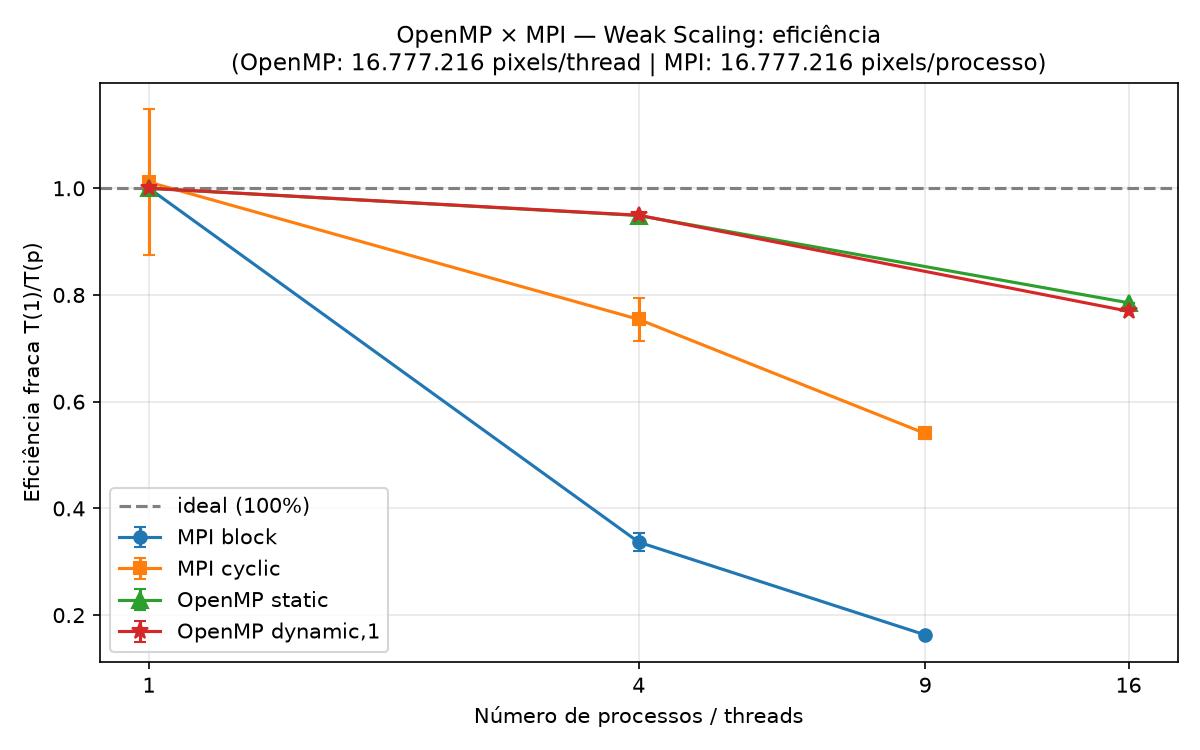
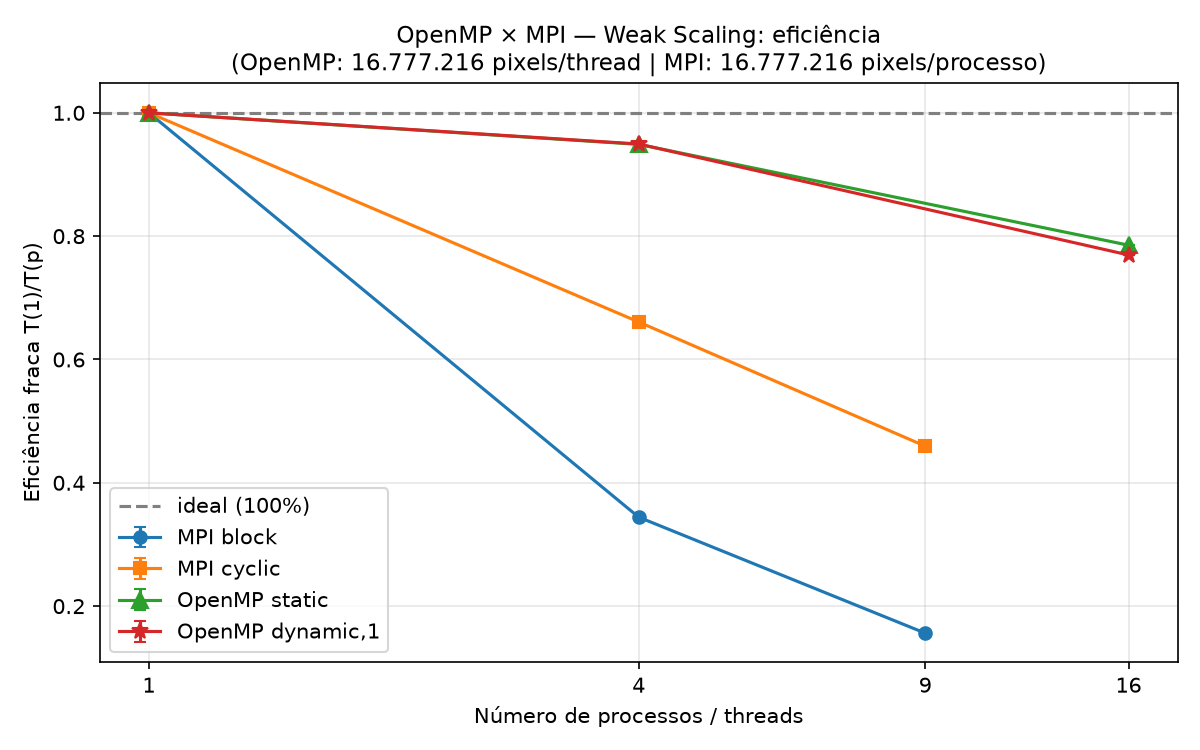
Adição de testes corrigidos após alteração no fator de balanceamento

diff --git a/scripts/generate_plots_mpi.py b/scripts/generate_plots_mpi.py
@@ -16,7 +16,7 @@ Convenções
 * Speedup = T_serial / T_paralelo ; Eficiência = Speedup / p.
 * Weak scaling: eficiência fraca = T(p=1) / T(p), com T(p=1) = média das
   repetições com p=1 da mesma estratégia/política.
-* f_lb (MPI) e λ (OpenMP) são a mesma métrica: t_max / t_mean (1.0 = ideal).
+* λ (MPI) = (t_max - t_min) / t_max (0.0 = ideal).
 * Referências (ideal / serial): quando a referência distorce a escala do
   gráfico (ref_max / topo_dados > LIMIAR_REF), são gerados DOIS arquivos:
       <nome>.png          -> só os resultados (escala ajustada aos dados)
@@ -400,6 +400,8 @@ def ref_ideal_speedup(ax):
 def ref_um(ax, rotulo):
     ax.axhline(1.0, linestyle="--", color="gray", label=rotulo)
 
+def ref_zero(ax, rotulo):
+    ax.axhline(0.0, linestyle="--", color="gray", label=rotulo)
 
 def formatar_p(ax, ps=P_COMUNS):
     ax.set_xscale("log", base=2)
@@ -425,6 +427,8 @@ def builder_strong_mpi(campo, ylabel, titulo, ref):
                     ref_ideal_speedup(ax)
                 elif ref == "um":
                     ref_um(ax, "ideal (100%)" if campo == "efic" else "ideal (1.0)")
+                elif ref == "zero":
+                     ref_zero(ax, "ideal (0.0)")
                 elif ref == "serial":
                     ts = next(r["t_serial"] for r in resumo_mpi if r["cenario"] == cen)
                     ax.axhline(ts, linestyle="--", color="gray", label="serial")
@@ -452,9 +456,9 @@ salvar("time_strong_mpi",
        builder_strong_mpi("tempo", "Tempo médio (s)", "MPI — Tempo vs Processos", "serial"),
        ref_max=t_serial_max)
 salvar("lambda_strong_mpi",
-       builder_strong_mpi("flb", "f_lb (t_max / t_mean)",
-                          "MPI — Fator de balanceamento vs Processos", "um"),
-       ref_max=1.0)
+       builder_strong_mpi("flb", "f_lb ((t_max - t_min) / t_max)",
+                          "MPI — Fator de balanceamento vs Processos", "zero"),
+       ref_max=0.0)
 
 
 # ---------------------------------------------------------------
@@ -511,6 +515,10 @@ if any(r["cenario"] == "weak" for r in resumo_mpi):
            builder_weak_mpi("efic_fraca", "Eficiência fraca T(1)/T(p)",
                             "MPI — Weak Scaling: eficiência", "um"),
            ref_max=1.0)
+    salvar("weak_scaling_mpi_lambda",
+           builder_weak_mpi("flb", "f_lb ((t_max - t_min) / t_max)",
+                            "MPI — Weak Scaling: Fator de balanceamento", "zero"), 
+           ref_max=0.0)
 
 
 # ---------------------------------------------------------------
@@ -568,10 +576,6 @@ if TEM_OMP:
            ref_max=max(P_COMUNS))
     salvar("cmp_efficiency",
            builder_cmp("efic", "Eficiência", "OpenMP × MPI — Eficiência", "um"),
-           ref_max=1.0)
-    salvar("cmp_lambda",
-           builder_cmp("flb", "λ / f_lb (t_max / t_mean)",
-                       "OpenMP × MPI — Fator de balanceamento", "um"),
            ref_max=1.0)
 
     # Weak scaling: eficiência fraca OpenMP x MPI

diff --git a/docs/summary_tables_mpi.md b/docs/summary_tables_mpi.md
@@ -6,35 +6,35 @@ Geradas a partir de `experiments_mpi.csv` (comparações com `experiments.csv`, 
 
 Valores: **média ± desvio padrão amostral** (n = 3 repetições). Speedup, eficiência e f_lb calculados por repetição e depois agregados.
 
-T_serial = 16.655433 s.
+T_serial = 12.686733 s.
 
 | Estratégia | Processos | Tempo (s) | Speedup | Eficiência | f_lb | Corretude |
 |:---|:-:|:-:|:-:|:-:|:-:|:---|
-| block | 1 | 16.517162 ± 2.386648 | 1.0238 ± 0.1604 | 1.0238 ± 0.1604 | 1.0000 ± 0.0000 | idêntica (3/3) |
-| block | 2 | 8.420078 ± 0.874455 | 1.9916 ± 0.1952 | 0.9958 ± 0.0976 | 1.0011 ± 0.0008 | idêntica (3/3) |
-| block | 4 | 10.355572 ± 0.757996 | 1.6140 ± 0.1165 | 0.4035 ± 0.0291 | 1.9129 ± 0.0113 | idêntica (3/3) |
-| block | 8 | 9.151242 ± 0.478537 | 1.8233 ± 0.0954 | 0.2279 ± 0.0119 | 2.7310 ± 0.0986 | idêntica (3/3) |
-| cyclic | 1 | 13.985228 ± 0.856518 | 1.1938 ± 0.0707 | 1.1938 ± 0.0707 | 1.0000 ± 0.0000 | idêntica (3/3) |
-| cyclic | 2 | 9.029600 ± 0.265018 | 1.8456 ± 0.0539 | 0.9228 ± 0.0270 | 1.0019 ± 0.0008 | idêntica (3/3) |
-| cyclic | 4 | 5.266584 ± 0.042490 | 3.1626 ± 0.0254 | 0.7907 ± 0.0063 | 1.0013 ± 0.0004 | idêntica (3/3) |
-| cyclic | 8 | 3.417286 ± 0.021641 | 4.8740 ± 0.0308 | 0.6093 ± 0.0039 | 1.0353 ± 0.0007 | idêntica (3/3) |
+| block | 1 | 12.703137 ± 0.042951 | 0.9987 ± 0.0034 | 0.9987 ± 0.0034 | 0.0000 ± 0.0000 | idêntica (3/3) |
+| block | 2 | 7.427058 ± 0.035944 | 1.7082 ± 0.0082 | 0.8541 ± 0.0041 | 0.0016 ± 0.0001 | idêntica (3/3) |
+| block | 4 | 9.276649 ± 0.047436 | 1.3676 ± 0.0070 | 0.3419 ± 0.0017 | 0.9702 ± 0.0003 | idêntica (3/3) |
+| block | 8 | 8.144117 ± 0.217866 | 1.5585 ± 0.0423 | 0.1948 ± 0.0053 | 0.9952 ± 0.0011 | idêntica (3/3) |
+| cyclic | 1 | 12.709290 ± 0.030399 | 0.9982 ± 0.0024 | 0.9982 ± 0.0024 | 0.0000 ± 0.0000 | idêntica (3/3) |
+| cyclic | 2 | 7.408484 ± 0.021949 | 1.7125 ± 0.0051 | 0.8562 ± 0.0025 | 0.0022 ± 0.0006 | idêntica (3/3) |
+| cyclic | 4 | 4.836015 ± 0.001591 | 2.6234 ± 0.0009 | 0.6558 ± 0.0002 | 0.0020 ± 0.0007 | idêntica (3/3) |
+| cyclic | 8 | 3.261153 ± 0.127765 | 3.8942 ± 0.1492 | 0.4868 ± 0.0186 | 0.0553 ± 0.0044 | idêntica (3/3) |
 
 ## Tabela 2 — Strong scaling MPI, Seahorse (4096x4096, 5000 iterações)
 
 Valores: **média ± desvio padrão amostral** (n = 3 repetições). Speedup, eficiência e f_lb calculados por repetição e depois agregados.
 
-T_serial = 5.925033 s.
+T_serial = 5.670867 s.
 
 | Estratégia | Processos | Tempo (s) | Speedup | Eficiência | f_lb | Corretude |
 |:---|:-:|:-:|:-:|:-:|:-:|:---|
-| block | 1 | 6.512467 ± 0.219998 | 0.9105 ± 0.0314 | 0.9105 ± 0.0314 | 1.0000 ± 0.0000 | idêntica (3/3) |
-| block | 2 | 4.610490 ± 0.021616 | 1.2851 ± 0.0060 | 0.6426 ± 0.0030 | 1.1516 ± 0.0017 | idêntica (3/3) |
-| block | 4 | 3.108156 ± 0.004136 | 1.9063 ± 0.0025 | 0.4766 ± 0.0006 | 1.1913 ± 0.0017 | idêntica (3/3) |
-| block | 8 | 1.995781 ± 0.016075 | 2.9689 ± 0.0239 | 0.3711 ± 0.0030 | 1.2584 ± 0.0041 | idêntica (3/3) |
-| cyclic | 1 | 6.243431 ± 0.035451 | 0.9490 ± 0.0054 | 0.9490 ± 0.0054 | 1.0000 ± 0.0000 | idêntica (3/3) |
-| cyclic | 2 | 3.848581 ± 0.031858 | 1.5396 ± 0.0127 | 0.7698 ± 0.0064 | 1.0043 ± 0.0007 | idêntica (3/3) |
-| cyclic | 4 | 2.502078 ± 0.025712 | 2.3682 ± 0.0245 | 0.5921 ± 0.0061 | 1.0016 ± 0.0012 | idêntica (3/3) |
-| cyclic | 8 | 1.693561 ± 0.022434 | 3.4990 ± 0.0464 | 0.4374 ± 0.0058 | 1.0457 ± 0.0006 | idêntica (3/3) |
+| block | 1 | 6.110460 ± 0.009083 | 0.9281 ± 0.0014 | 0.9281 ± 0.0014 | 0.0000 ± 0.0000 | idêntica (3/3) |
+| block | 2 | 4.102024 ± 0.012568 | 1.3825 ± 0.0042 | 0.6912 ± 0.0021 | 0.2857 ± 0.0013 | idêntica (3/3) |
+| block | 4 | 2.796761 ± 0.002653 | 2.0277 ± 0.0019 | 0.5069 ± 0.0005 | 0.4239 ± 0.0011 | idêntica (3/3) |
+| block | 8 | 1.860724 ± 0.005750 | 3.0477 ± 0.0094 | 0.3810 ± 0.0012 | 0.5804 ± 0.0060 | idêntica (3/3) |
+| cyclic | 1 | 5.695332 ± 0.017791 | 0.9957 ± 0.0031 | 0.9957 ± 0.0031 | 0.0000 ± 0.0000 | idêntica (3/3) |
+| cyclic | 2 | 3.352206 ± 0.036942 | 1.6918 ± 0.0186 | 0.8459 ± 0.0093 | 0.0094 ± 0.0019 | idêntica (3/3) |
+| cyclic | 4 | 2.211711 ± 0.004914 | 2.5640 ± 0.0057 | 0.6410 ± 0.0014 | 0.0081 ± 0.0009 | idêntica (3/3) |
+| cyclic | 8 | 1.551044 ± 0.057485 | 3.6594 ± 0.1328 | 0.4574 ± 0.0166 | 0.0863 ± 0.0149 | idêntica (3/3) |
 
 ## Tabela 3 — Weak scaling MPI
 
@@ -44,12 +44,12 @@ Eficiência fraca = T(p=1) / T(p). Speedup é relativo ao serial da respectiva r
 
 | Estratégia | Processos | Resolução | Pixels/proc | T_serial (s) | Tempo (s) | Speedup vs serial | Eficiência fraca | f_lb | Corretude |
 |:---|:-:|:-:|:-:|:-:|:-:|:-:|:-:|:-:|:---|
-| block | 1 | 4096x4096 | 16,777,216 | 16.655433 | 13.476912 ± 0.076413 | 1.2359 ± 0.0070 | 1.0000 ± 0.0057 | 1.0000 ± 0.0000 | idêntica (3/3) |
-| block | 4 | 8192x8192 | 16,777,216 | 52.110067 | 40.083100 ± 1.914670 | 1.3021 ± 0.0640 | 0.3368 ± 0.0165 | 1.9464 ± 0.0044 | idêntica (3/3) |
-| block | 9 | 12288x12288 | 16,777,216 | 127.904267 | 82.714398 ± 0.961912 | 1.5465 ± 0.0180 | 0.1629 ± 0.0019 | 3.0830 ± 0.0289 | idêntica (3/3) |
-| cyclic | 1 | 4096x4096 | 16,777,216 | 16.655433 | 15.554859 ± 1.951843 | 1.0830 ± 0.1465 | 1.0114 ± 0.1368 | 1.0000 ± 0.0000 | idêntica (3/3) |
-| cyclic | 4 | 8192x8192 | 16,777,216 | 52.110067 | 20.658994 ± 1.063862 | 2.5270 ± 0.1330 | 0.7543 ± 0.0397 | 1.0131 ± 0.0105 | idêntica (3/3) |
-| cyclic | 9 | 12288x12288 | 16,777,216 | 127.904267 | 28.791104 ± 0.580000 | 4.4437 ± 0.0890 | 0.5404 ± 0.0108 | 1.0408 ± 0.0227 | idêntica (3/3) |
+| block | 1 | 4096x4096 | 16,777,216 | 12.686733 | 12.750656 ± 0.052336 | 0.9950 ± 0.0041 | 1.0000 ± 0.0041 | 0.0000 ± 0.0000 | idêntica (3/3) |
+| block | 4 | 8192x8192 | 16,777,216 | 50.528933 | 37.038328 ± 0.065042 | 1.3642 ± 0.0024 | 0.3443 ± 0.0006 | 0.9701 ± 0.0001 | idêntica (3/3) |
+| block | 9 | 12288x12288 | 16,777,216 | 113.804200 | 81.679943 ± 2.307430 | 1.3940 ± 0.0400 | 0.1562 ± 0.0045 | 0.9957 ± 0.0011 | idêntica (3/3) |
+| cyclic | 1 | 4096x4096 | 16,777,216 | 12.686733 | 12.771270 ± 0.075864 | 0.9934 ± 0.0059 | 1.0000 ± 0.0060 | 0.0000 ± 0.0000 | idêntica (3/3) |
+| cyclic | 4 | 8192x8192 | 16,777,216 | 50.528933 | 19.326869 ± 0.033492 | 2.6144 ± 0.0045 | 0.6608 ± 0.0011 | 0.0012 ± 0.0008 | idêntica (3/3) |
+| cyclic | 9 | 12288x12288 | 16,777,216 | 113.804200 | 27.799297 ± 0.185397 | 4.0939 ± 0.0272 | 0.4594 ± 0.0031 | 0.0524 ± 0.0003 | idêntica (3/3) |
 
 ## Tabela 4 — Comparação OpenMP × MPI, Input padrão (strong scaling)
 
@@ -58,17 +58,17 @@ Valores: **média ± desvio padrão amostral** (n = 3 repetições). Speedup, ef
 | Implementação | p | Resolução | Tempo (s) | Speedup | Eficiência | λ / f_lb |
 |:---|:-:|:-:|:-:|:-:|:-:|:-:|
 | OpenMP static | 1 | 4096x4096 | 5.8646 ± 0.0162 | 1.0020 ± 0.0028 | 1.0020 ± 0.0028 | 1.0000 ± 0.0000 |
-| MPI block | 1 | 4096x4096 | 16.517162 ± 2.386648 | 1.0238 ± 0.1604 | 1.0238 ± 0.1604 | 1.0000 ± 0.0000 |
-| MPI cyclic | 1 | 4096x4096 | 13.985228 ± 0.856518 | 1.1938 ± 0.0707 | 1.1938 ± 0.0707 | 1.0000 ± 0.0000 |
+| MPI block | 1 | 4096x4096 | 12.703137 ± 0.042951 | 0.9987 ± 0.0034 | 0.9987 ± 0.0034 | 0.0000 ± 0.0000 |
+| MPI cyclic | 1 | 4096x4096 | 12.709290 ± 0.030399 | 0.9982 ± 0.0024 | 0.9982 ± 0.0024 | 0.0000 ± 0.0000 |
 | OpenMP static | 2 | 4096x4096 | 2.9474 ± 0.0129 | 1.9938 ± 0.0087 | 0.9969 ± 0.0043 | 1.0032 ± 0.0021 |
-| MPI block | 2 | 4096x4096 | 8.420078 ± 0.874455 | 1.9916 ± 0.1952 | 0.9958 ± 0.0976 | 1.0011 ± 0.0008 |
-| MPI cyclic | 2 | 4096x4096 | 9.029600 ± 0.265018 | 1.8456 ± 0.0539 | 0.9228 ± 0.0270 | 1.0019 ± 0.0008 |
+| MPI block | 2 | 4096x4096 | 7.427058 ± 0.035944 | 1.7082 ± 0.0082 | 0.8541 ± 0.0041 | 0.0016 ± 0.0001 |
+| MPI cyclic | 2 | 4096x4096 | 7.408484 ± 0.021949 | 1.7125 ± 0.0051 | 0.8562 ± 0.0025 | 0.0022 ± 0.0006 |
 | OpenMP static | 4 | 4096x4096 | 2.8701 ± 0.0031 | 2.0475 ± 0.0022 | 0.5119 ± 0.0006 | 1.9396 ± 0.0037 |
-| MPI block | 4 | 4096x4096 | 10.355572 ± 0.757996 | 1.6140 ± 0.1165 | 0.4035 ± 0.0291 | 1.9129 ± 0.0113 |
-| MPI cyclic | 4 | 4096x4096 | 5.266584 ± 0.042490 | 3.1626 ± 0.0254 | 0.7907 ± 0.0063 | 1.0013 ± 0.0004 |
+| MPI block | 4 | 4096x4096 | 9.276649 ± 0.047436 | 1.3676 ± 0.0070 | 0.3419 ± 0.0017 | 0.9702 ± 0.0003 |
+| MPI cyclic | 4 | 4096x4096 | 4.836015 ± 0.001591 | 2.6234 ± 0.0009 | 0.6558 ± 0.0002 | 0.0020 ± 0.0007 |
 | OpenMP static | 8 | 4096x4096 | 2.0283 ± 0.0091 | 2.8972 ± 0.0130 | 0.3622 ± 0.0016 | 2.6488 ± 0.0110 |
-| MPI block | 8 | 4096x4096 | 9.151242 ± 0.478537 | 1.8233 ± 0.0954 | 0.2279 ± 0.0119 | 2.7310 ± 0.0986 |
-| MPI cyclic | 8 | 4096x4096 | 3.417286 ± 0.021641 | 4.8740 ± 0.0308 | 0.6093 ± 0.0039 | 1.0353 ± 0.0007 |
+| MPI block | 8 | 4096x4096 | 8.144117 ± 0.217866 | 1.5585 ± 0.0423 | 0.1948 ± 0.0053 | 0.9952 ± 0.0011 |
+| MPI cyclic | 8 | 4096x4096 | 3.261153 ± 0.127765 | 3.8942 ± 0.1492 | 0.4868 ± 0.0186 | 0.0553 ± 0.0044 |
 | OpenMP static,1 | 8 | 4096x4096 | 0.9628 ± 0.0270 | 6.1068 ± 0.1690 | 0.7634 ± 0.0211 | 1.1331 ± 0.0079 |
 | OpenMP dynamic,1 | 8 | 4096x4096 | 0.8323 ± 0.0010 | 7.0607 ± 0.0087 | 0.8826 ± 0.0011 | 1.0000 ± 0.0001 |
 
@@ -79,17 +79,17 @@ Valores: **média ± desvio padrão amostral** (n = 3 repetições). Speedup, ef
 | Implementação | p | Resolução | Tempo (s) | Speedup | Eficiência | λ / f_lb |
 |:---|:-:|:-:|:-:|:-:|:-:|:-:|
 | OpenMP static | 1 | 4096x4096 | 2.6290 ± 0.0132 | 0.9970 ± 0.0050 | 0.9970 ± 0.0050 | 1.0000 ± 0.0000 |
-| MPI block | 1 | 4096x4096 | 6.512467 ± 0.219998 | 0.9105 ± 0.0314 | 0.9105 ± 0.0314 | 1.0000 ± 0.0000 |
-| MPI cyclic | 1 | 4096x4096 | 6.243431 ± 0.035451 | 0.9490 ± 0.0054 | 0.9490 ± 0.0054 | 1.0000 ± 0.0000 |
+| MPI block | 1 | 4096x4096 | 6.110460 ± 0.009083 | 0.9281 ± 0.0014 | 0.9281 ± 0.0014 | 0.0000 ± 0.0000 |
+| MPI cyclic | 1 | 4096x4096 | 5.695332 ± 0.017791 | 0.9957 ± 0.0031 | 0.9957 ± 0.0031 | 0.0000 ± 0.0000 |
 | OpenMP static | 2 | 4096x4096 | 1.5486 ± 0.0042 | 1.6927 ± 0.0046 | 0.8463 ± 0.0023 | 1.1838 ± 0.0017 |
-| MPI block | 2 | 4096x4096 | 4.610490 ± 0.021616 | 1.2851 ± 0.0060 | 0.6426 ± 0.0030 | 1.1516 ± 0.0017 |
-| MPI cyclic | 2 | 4096x4096 | 3.848581 ± 0.031858 | 1.5396 ± 0.0127 | 0.7698 ± 0.0064 | 1.0043 ± 0.0007 |
+| MPI block | 2 | 4096x4096 | 4.102024 ± 0.012568 | 1.3825 ± 0.0042 | 0.6912 ± 0.0021 | 0.2857 ± 0.0013 |
+| MPI cyclic | 2 | 4096x4096 | 3.352206 ± 0.036942 | 1.6918 ± 0.0186 | 0.8459 ± 0.0093 | 0.0094 ± 0.0019 |
 | OpenMP static | 4 | 4096x4096 | 0.8399 ± 0.0045 | 3.1208 ± 0.0166 | 0.7802 ± 0.0042 | 1.2304 ± 0.0017 |
-| MPI block | 4 | 4096x4096 | 3.108156 ± 0.004136 | 1.9063 ± 0.0025 | 0.4766 ± 0.0006 | 1.1913 ± 0.0017 |
-| MPI cyclic | 4 | 4096x4096 | 2.502078 ± 0.025712 | 2.3682 ± 0.0245 | 0.5921 ± 0.0061 | 1.0016 ± 0.0012 |
+| MPI block | 4 | 4096x4096 | 2.796761 ± 0.002653 | 2.0277 ± 0.0019 | 0.5069 ± 0.0005 | 0.4239 ± 0.0011 |
+| MPI cyclic | 4 | 4096x4096 | 2.211711 ± 0.004914 | 2.5640 ± 0.0057 | 0.6410 ± 0.0014 | 0.0081 ± 0.0009 |
 | OpenMP static | 8 | 4096x4096 | 0.4879 ± 0.0011 | 5.3728 ± 0.0122 | 0.6716 ± 0.0015 | 1.3586 ± 0.0035 |
-| MPI block | 8 | 4096x4096 | 1.995781 ± 0.016075 | 2.9689 ± 0.0239 | 0.3711 ± 0.0030 | 1.2584 ± 0.0041 |
-| MPI cyclic | 8 | 4096x4096 | 1.693561 ± 0.022434 | 3.4990 ± 0.0464 | 0.4374 ± 0.0058 | 1.0457 ± 0.0006 |
+| MPI block | 8 | 4096x4096 | 1.860724 ± 0.005750 | 3.0477 ± 0.0094 | 0.3810 ± 0.0012 | 0.5804 ± 0.0060 |
+| MPI cyclic | 8 | 4096x4096 | 1.551044 ± 0.057485 | 3.6594 ± 0.1328 | 0.4574 ± 0.0166 | 0.0863 ± 0.0149 |
 | OpenMP static,1 | 8 | 4096x4096 | 0.4258 ± 0.0011 | 6.1560 ± 0.0163 | 0.7695 ± 0.0020 | 1.1476 ± 0.0060 |
 | OpenMP dynamic,1 | 8 | 4096x4096 | 0.3728 ± 0.0016 | 7.0312 ± 0.0295 | 0.8789 ± 0.0037 | 1.0016 ± 0.0004 |
 
@@ -107,12 +107,12 @@ Eficiência fraca = T(p=1) / T(p). A carga por unidade de execução difere entr
 | OpenMP dynamic,1 | 1 | 4096x4096 | 16,777,216 | 5.8761 (n=1) | 1.0000 (n=1) |
 | OpenMP dynamic,1 | 4 | 8192x8192 | 16,777,216 | 6.1891 (n=1) | 0.9494 (n=1) |
 | OpenMP dynamic,1 | 16 | 16384x16384 | 16,777,216 | 7.6364 (n=1) | 0.7695 (n=1) |
-| MPI block | 1 | 4096x4096 | 16,777,216 | 13.476912 ± 0.076413 | 1.0000 ± 0.0057 |
-| MPI block | 4 | 8192x8192 | 16,777,216 | 40.083100 ± 1.914670 | 0.3368 ± 0.0165 |
-| MPI block | 9 | 12288x12288 | 16,777,216 | 82.714398 ± 0.961912 | 0.1629 ± 0.0019 |
-| MPI cyclic | 1 | 4096x4096 | 16,777,216 | 15.554859 ± 1.951843 | 1.0114 ± 0.1368 |
-| MPI cyclic | 4 | 8192x8192 | 16,777,216 | 20.658994 ± 1.063862 | 0.7543 ± 0.0397 |
-| MPI cyclic | 9 | 12288x12288 | 16,777,216 | 28.791104 ± 0.580000 | 0.5404 ± 0.0108 |
+| MPI block | 1 | 4096x4096 | 16,777,216 | 12.750656 ± 0.052336 | 1.0000 ± 0.0041 |
+| MPI block | 4 | 8192x8192 | 16,777,216 | 37.038328 ± 0.065042 | 0.3443 ± 0.0006 |
+| MPI block | 9 | 12288x12288 | 16,777,216 | 81.679943 ± 2.307430 | 0.1562 ± 0.0045 |
+| MPI cyclic | 1 | 4096x4096 | 16,777,216 | 12.771270 ± 0.075864 | 1.0000 ± 0.0060 |
+| MPI cyclic | 4 | 8192x8192 | 16,777,216 | 19.326869 ± 0.033492 | 0.6608 ± 0.0011 |
+| MPI cyclic | 9 | 12288x12288 | 16,777,216 | 27.799297 ± 0.185397 | 0.4594 ± 0.0031 |
 
 ## Tabela 7 — Verificação de corretude (todas as execuções MPI)
 
